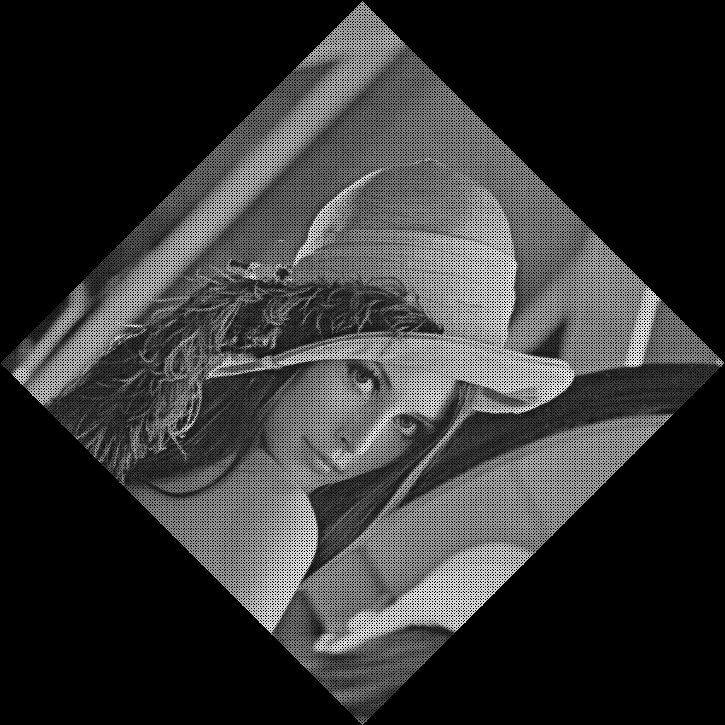
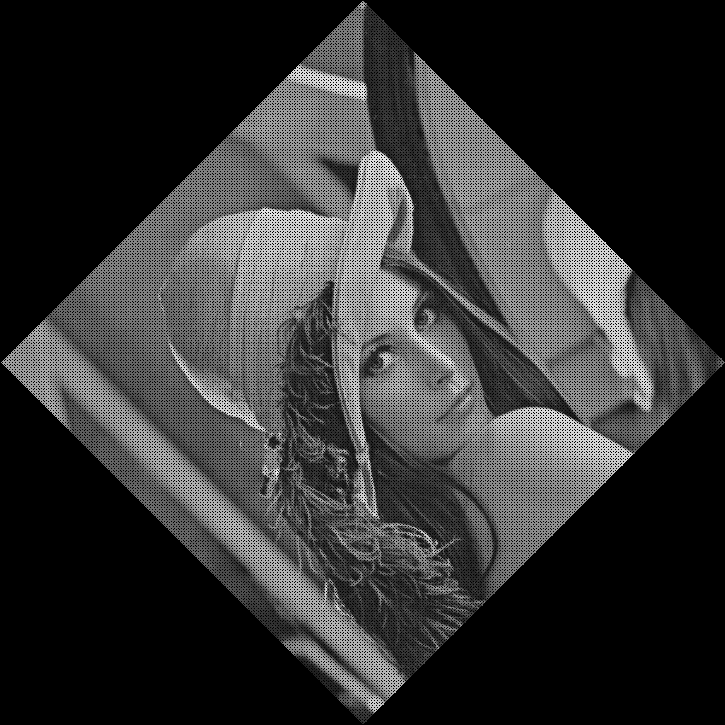
need to caculater the new_y first     that is wrong in following     --->     new_x = round(new_x-new_y*tangent)     new_y = round(new_x*math.sin(angle)+new_y)

diff --git a/Test_20210121/2_Image_rotation_V0.py b/Test_20210121/2_Image_rotation_V0.py
@@ -14,8 +14,17 @@ def shear(angle, x, y):
     new_x = round(x-y*tangent)
     new_y = y
  
-    new_x = round(new_x-new_y*tangent)              #since there is no change in new_y according to the shear matrix
+    """
+    need to caculater the new_y first
+    that is wrong in following 
+    --->
+    new_x = round(new_x-new_y*tangent)     
+    new_y = round(new_x*math.sin(angle)+new_y)
+
+    """
     new_y = round(new_x*math.sin(angle)+new_y)      #since there is no change in new_x according to the shear matrix
+    new_x = round(new_x-new_y*tangent)              #since there is no change in new_y according to the shear matrix
+    
     
     return new_y, new_x
 
@@ -28,7 +37,7 @@ def shear_No_tan(angle, x, y):
 
 image = cv2.imread(r"C:\Users\user\Desktop\Software\Python_3.12\git_test\Test_20210121\lena.bmp")[:,:,0]
 print(image.shape)
-angle = -int(input("Enter the angle :- "))                # Ask the user to enter the angle of rotation
+angle = int(input("Enter the angle :"))                # Ask the user to enter the angle of rotation
 
 angle = math.radians(angle)
 cosine = math.cos(angle)
@@ -57,8 +66,8 @@ if __name__ == "__main__":
             y=image.shape[0] - 1 - i - original_centre_height                   
             x=image.shape[1] - 1 - j - original_centre_width 
      
-            new_y,new_x = shear(angle,x,y) #for usign tan
-            #new_y, new_x = shear_No_tan(angle,x,y) #did't useing tan
+            # new_y,new_x = shear(angle,x,y) #for usign tan
+            new_y, new_x = shear_No_tan(angle,x,y) #did't useing tan
             new_y = new_centre_height - new_y
             new_x = new_centre_width - new_x
             output[new_y,new_x]=image[i,j]  #writing the pixels to the new destination in the output image
